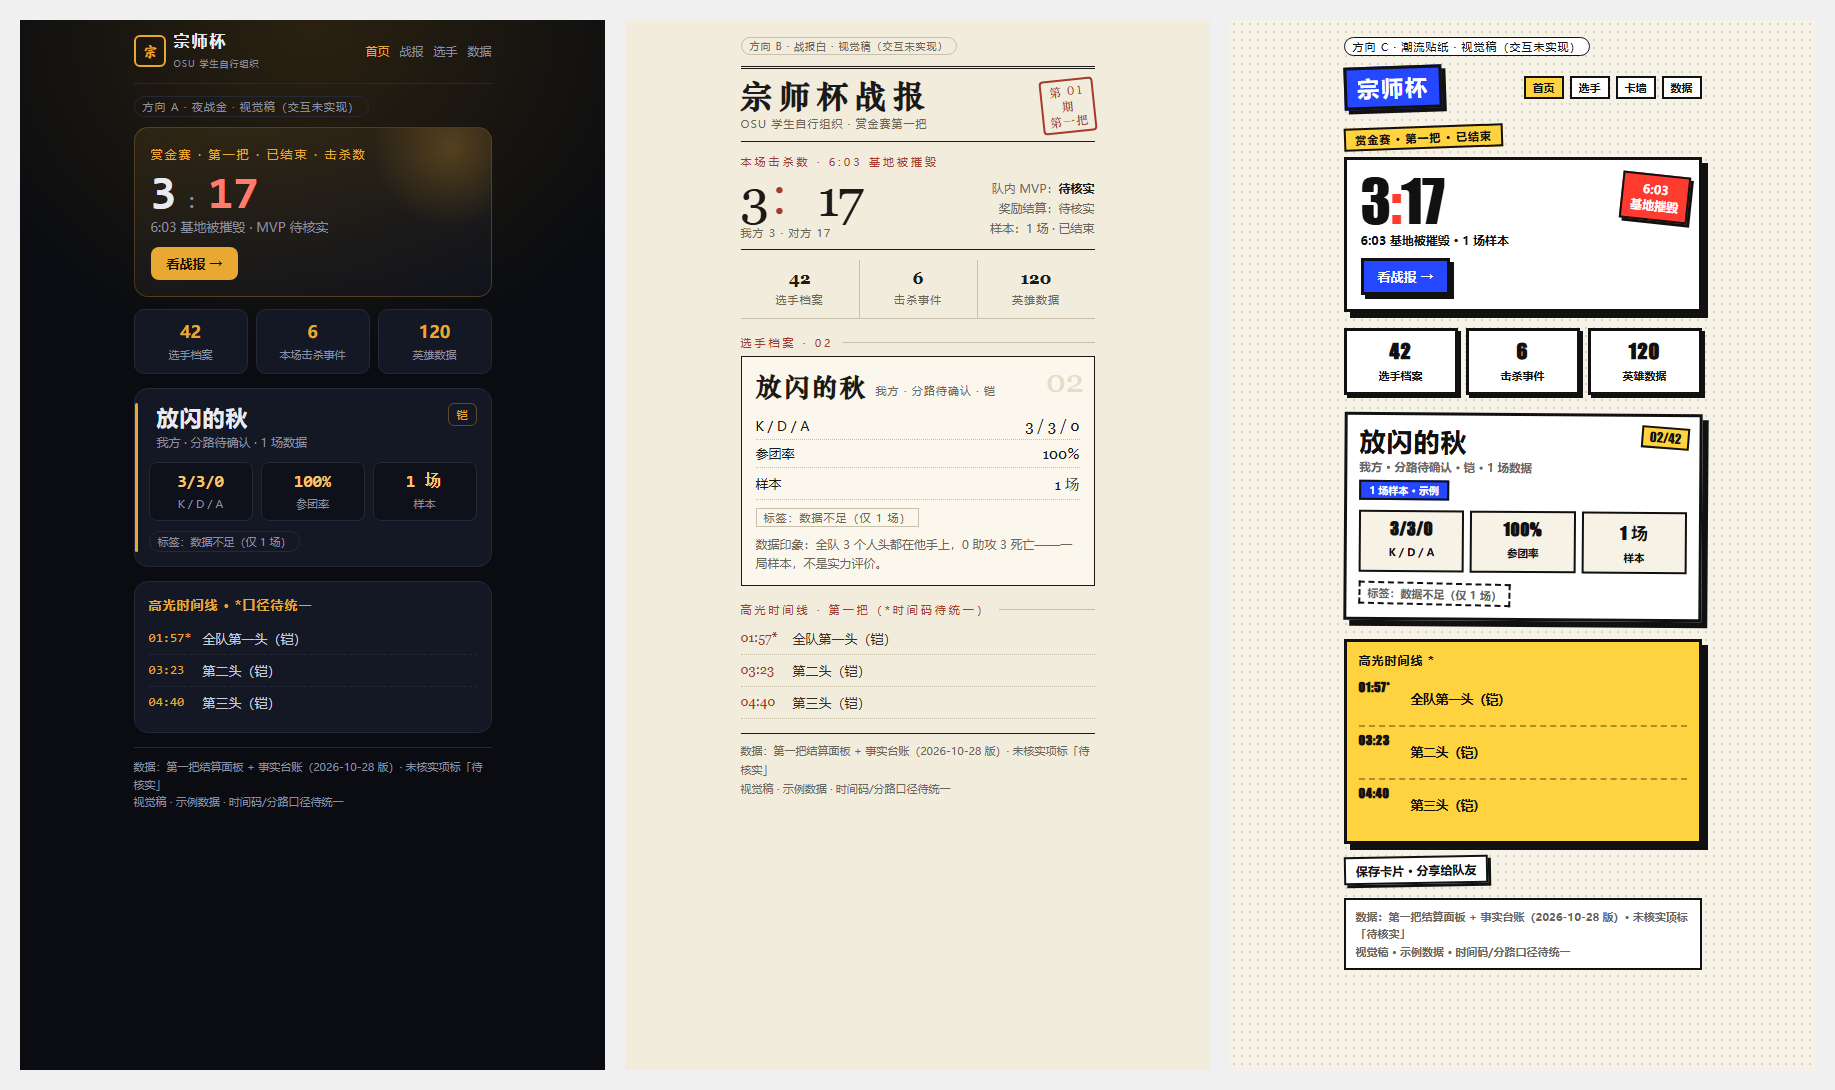
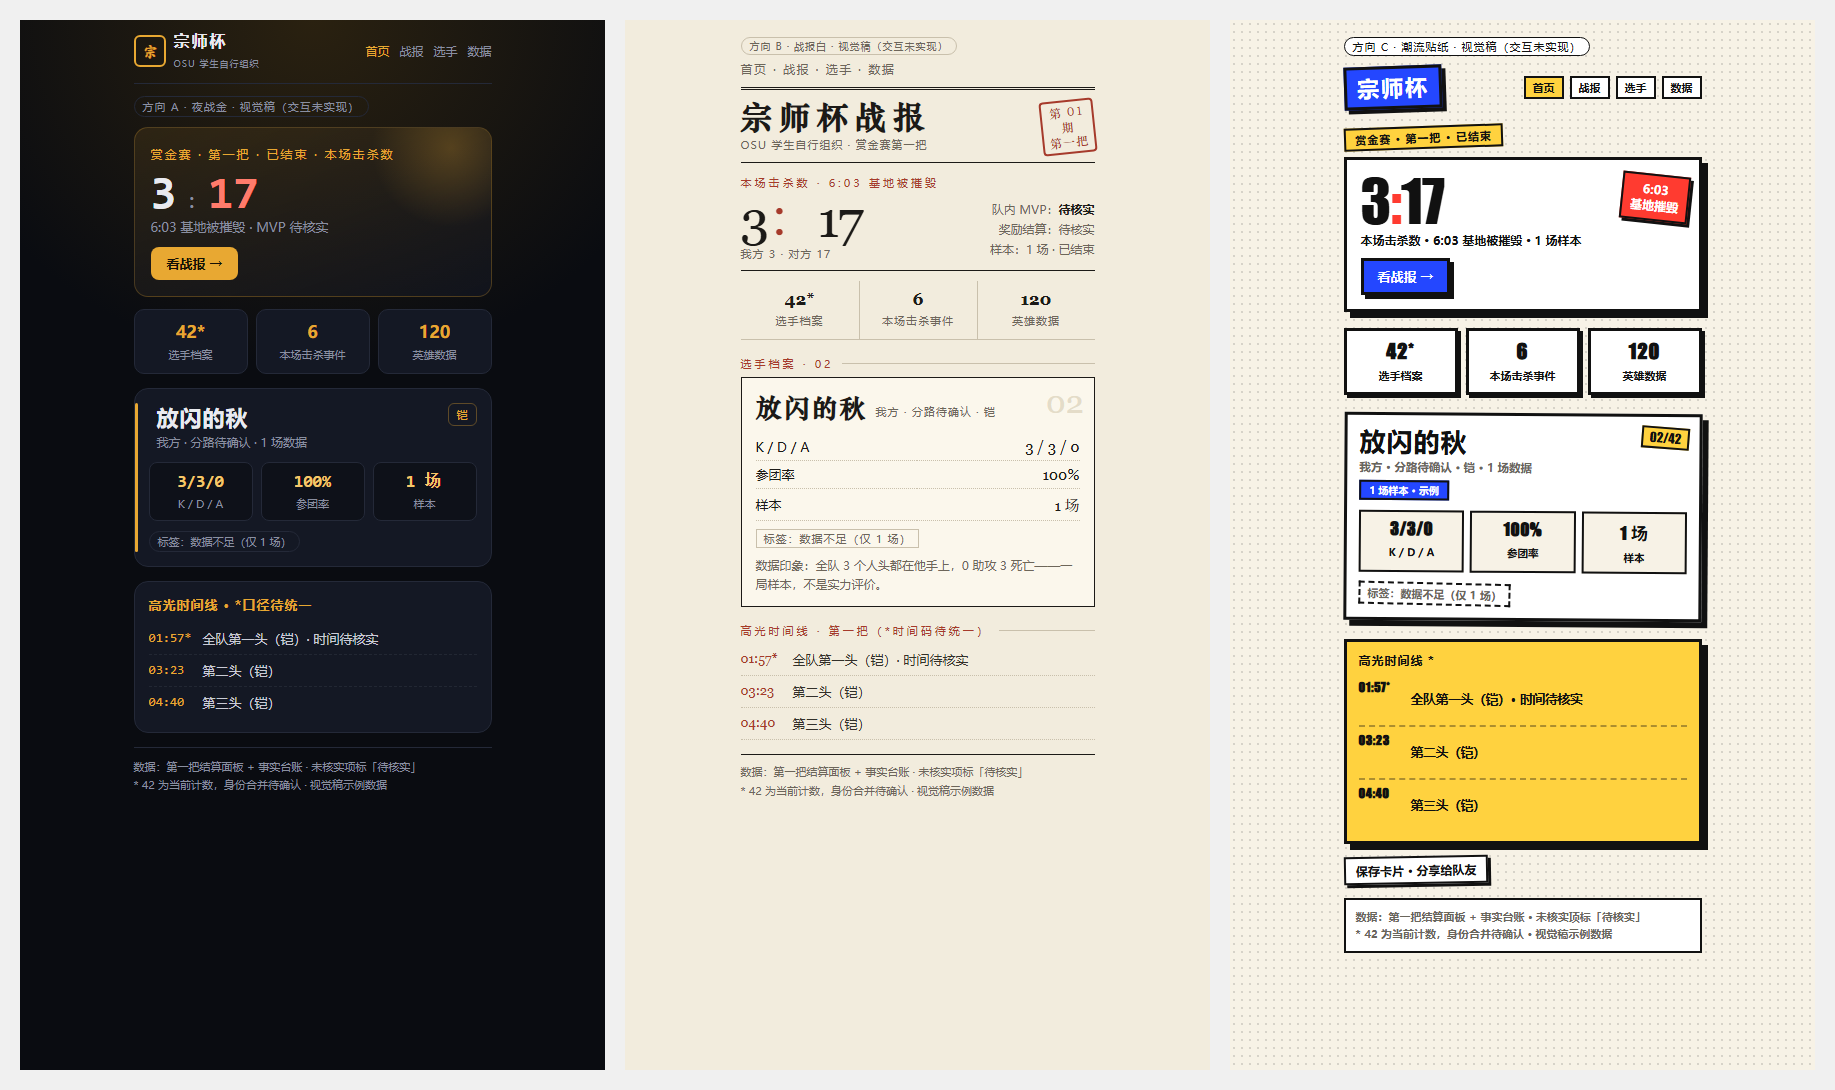
M0.3: 补事实与来源清单；逐项待核实、42 计数口径、数据/schema 审核门

diff --git a/mockups/style_c.html b/mockups/style_c.html
@@ -54,22 +54,22 @@ body{margin:0;background:var(--cream);color:var(--ink);font-family:"Microsoft Ya
 
   <div class="topbar">
     <div class="logo">宗师杯</div>
-    <div class="nav"><span class="on">首页</span><span>选手</span><span>卡墙</span><span>数据</span></div>
+    <div class="nav"><span class="on">首页</span><span>战报</span><span>选手</span><span>数据</span></div>
   </div>
 
   <div class="hero">
     <div class="tape">赏金赛 · 第一把 · 已结束</div>
     <div class="score">
       <div class="big">3<em>:</em>17</div>
-      <div class="sub">6:03 基地被摧毁 · 1 场样本</div>
+      <div class="sub">本场击杀数 · 6:03 基地被摧毁 · 1 场样本</div>
       <div class="sticker">6:03<br/>基地摧毁</div>
       <a class="cta" href="#">看战报 →</a>
     </div>
   </div>
 
   <div class="tiles">
-    <div class="tile"><b>42</b><span>选手档案</span></div>
-    <div class="tile"><b>6</b><span>击杀事件</span></div>
+    <div class="tile"><b>42*</b><span>选手档案</span></div>
+    <div class="tile"><b>6</b><span>本场击杀事件</span></div>
     <div class="tile"><b>120</b><span>英雄数据</span></div>
   </div>
 
@@ -88,13 +88,13 @@ body{margin:0;background:var(--cream);color:var(--ink);font-family:"Microsoft Ya
 
   <div class="tl">
     <h3>高光时间线 *</h3>
-    <div class="ev"><time>01:57*</time><p>全队第一头（铠）</p></div>
+    <div class="ev"><time>01:57*</time><p>全队第一头（铠）· 时间待核实</p></div>
     <div class="ev"><time>03:23</time><p>第二头（铠）</p></div>
     <div class="ev"><time>04:40</time><p>第三头（铠）</p></div>
   </div>
 
   <span class="share">保存卡片 · 分享给队友</span>
-  <div class="src">数据：第一把结算面板 + 事实台账（2026-10-28 版）· 未核实项标「待核实」<br/>视觉稿 · 示例数据 · 时间码/分路口径待统一</div>
+  <div class="src">数据：第一把结算面板 + 事实台账 · 未核实项标「待核实」<br/>* 42 为当前计数，身份合并待确认 · 视觉稿示例数据</div>
 </div>
 </body>
 </html>

diff --git a/mockups/style_b.html b/mockups/style_b.html
@@ -45,11 +45,13 @@ td:last-child{text-align:right;font-family:Georgia,serif;font-size:15px}
 .ev time{font-family:Georgia,serif;color:var(--red);min-width:42px;font-size:13px}
 .ev p{margin:0;color:#33302a}
 .src{margin-top:14px;border-top:1px solid var(--ink);padding-top:8px;font-family:"Microsoft YaHei",sans-serif;font-size:11px;color:var(--muted);line-height:1.7}
+.bnav{font-family:"Microsoft YaHei",sans-serif;font-size:11.5px;color:var(--muted);margin-top:6px;letter-spacing:2px}
 </style>
 </head>
 <body>
 <div class="screen">
   <div class="dir">方向 B · 战报白 · 视觉稿（交互未实现）</div>
+  <div class="bnav">首页 · 战报 · 选手 · 数据</div>
 
   <div class="masthead">
     <div>
@@ -70,8 +72,8 @@ td:last-child{text-align:right;font-family:Georgia,serif;font-size:15px}
   </div>
 
   <div class="strip">
-    <div><b>42</b><span>选手档案</span></div>
-    <div><b>6</b><span>击杀事件</span></div>
+    <div><b>42*</b><span>选手档案</span></div>
+    <div><b>6</b><span>本场击杀事件</span></div>
     <div><b>120</b><span>英雄数据</span></div>
   </div>
 
@@ -89,12 +91,12 @@ td:last-child{text-align:right;font-family:Georgia,serif;font-size:15px}
 
   <div class="section">高光时间线 · 第一把（*时间码待统一）</div>
   <div class="tl">
-    <div class="ev"><time>01:57*</time><p>全队第一头（铠）</p></div>
+    <div class="ev"><time>01:57*</time><p>全队第一头（铠）· 时间待核实</p></div>
     <div class="ev"><time>03:23</time><p>第二头（铠）</p></div>
     <div class="ev"><time>04:40</time><p>第三头（铠）</p></div>
   </div>
 
-  <div class="src">数据：第一把结算面板 + 事实台账（2026-10-28 版）· 未核实项标「待核实」<br/>视觉稿 · 示例数据 · 时间码/分路口径待统一</div>
+  <div class="src">数据：第一把结算面板 + 事实台账 · 未核实项标「待核实」<br/>* 42 为当前计数，身份合并待确认 · 视觉稿示例数据</div>
 </div>
 </body>
 </html>

diff --git a/mockups/style_a.html b/mockups/style_a.html
@@ -61,14 +61,14 @@ body{margin:0;background:radial-gradient(120% 60% at 50% 0%,#2a2110 0%,#0a0c11 5
   <div class="dir">方向 A · 夜战金 · 视觉稿（交互未实现）</div>
 
   <div class="hero">
-    <div class="match-label">赏金赛 · 第一把 · 已结束 · 击杀数</div>
+    <div class="match-label">赏金赛 · 第一把 · 已结束 · 本场击杀数</div>
     <div class="score"><b>3</b><i>:</i><b class="lose">17</b></div>
     <div class="meta">6:03 基地被摧毁 · MVP 待核实</div>
     <a class="cta" href="#">看战报 →</a>
   </div>
 
   <div class="tiles">
-    <div class="tile"><b>42</b><span>选手档案</span></div>
+    <div class="tile"><b>42*</b><span>选手档案</span></div>
     <div class="tile"><b>6</b><span>本场击杀事件</span></div>
     <div class="tile"><b>120</b><span>英雄数据</span></div>
   </div>
@@ -88,12 +88,12 @@ body{margin:0;background:radial-gradient(120% 60% at 50% 0%,#2a2110 0%,#0a0c11 5
 
   <div class="tl">
     <h3>高光时间线 · *口径待统一</h3>
-    <div class="ev"><time>01:57*</time><p>全队第一头（铠）</p></div>
+    <div class="ev"><time>01:57*</time><p>全队第一头（铠）· 时间待核实</p></div>
     <div class="ev"><time>03:23</time><p>第二头（铠）</p></div>
     <div class="ev"><time>04:40</time><p>第三头（铠）</p></div>
   </div>
 
-  <div class="src">数据：第一把结算面板 + 事实台账（2026-10-28 版）· 未核实项标「待核实」<br/>视觉稿 · 示例数据 · 时间码/分路口径待统一</div>
+  <div class="src">数据：第一把结算面板 + 事实台账 · 未核实项标「待核实」<br/>* 42 为当前计数，身份合并待确认 · 视觉稿示例数据</div>
 </div>
 </body>
 </html>

diff --git a/reviews/codex_review_02.md b/reviews/codex_review_02.md
@@ -1,0 +1,57 @@
+## 1. 逐项核对 P0 / P1
+
+审阅依据为当前大纲、三份 HTML、原评审及附件截图。仓库 HEAD 指向 `0cf96c4c82e5ea9f53c5b3f83d56d1774e3f325b`；Git 状态命令被环境策略拒绝，**工作树是否与提交完全一致需确认**。以下位置均为当前文件行号。
+
+| 项目 | 结论 | 证据与判断 |
+|---|---|---|
+| **P0-1 未核实项标注** | **部分关闭** | 分路已改为“待确认”：A:78、B:80、C:79；MVP 已标待核实：A:66、B:66。但第一头仍为 `01:57*`：A:91、B:92、C:91，仅以模块说明或页尾解释时间码待统一。大纲:129 仍列出 `01:56/01:57` 冲突。应在该值旁直接写“待核实”，避免星号被忽略。 |
+| **P0-2 奖励/日期证据** | **部分关闭** | B:67 已将奖励改为“待核实”，原倍率问题关闭。三版页尾 A:96、B:97、C:97 将日期改为“事实台账（2026-10-28 版）”，不再宣称该日已核对；但当前仓库未提供对应台账、版本定位或核对记录。**版本日期依据需确认**，补齐前应标待核实或移除日期。 |
+| **P0-3 公开标签规则** | **已关闭（本轮视觉稿范围）** | 三版:86 均改为“标签：数据不足（仅 1 场）”，未再展示“独狼强开／风险型”。大纲:32、87 保留稳定性发布约束。实际标签生成与校验留待数据阶段验收。 |
+| **P0-4 自填隐私约束** | **已关闭（规范层面）** | 大纲:88 明确公开开关仅表示意向，导出后须人工审核；:89 明确自述、名场面及导出 JSON 禁止真实姓名、学校、联系方式、住址、照片，并要求隐藏／删除接收入口。审核人和实际入口尚待落实，但不阻断本轮方向选择。 |
+| **P1-1 身份合并** | **部分关闭** | 大纲:83–84 已引入独立人物 ID、候选合并表及“未确认不合并、不覆盖”。但:76 仍把“同昵称＋同队伍”写成已经完成的合并，:77 断言 S1/S2 无重叠；:42、57 和三版统计仍按 42 人展示。尚无身份确认记录，规则与现状陈述未统一。:88 也未明确本地认领阶段如何人工核验归属。 |
+| **P1-2 审核基准** | **部分关闭** | 大纲:145–147 已拆分身份契约、数据校验和生成器；:158 要求记录提交 SHA、问题状态及复审结论。但:156 的审核门仍未显式列入数据/schema 门，审核记录也未完整要求文件范围、截图版本、验证结果和逐项关闭证据。当前 `reviews/codex_review_01.md` 是原审记录，不能替代 M0.2 修订证据包。 |
+| **P1-3 状态/占位边界** | **已关闭（M0 视觉稿范围）** | 大纲:46、108 已统一仓库状态；:59、88、109 明确自填为本地原型。A:61、B:52、C:53 均标“视觉稿（交互未实现）”。因此 A/C 的 `href="#"`、导航 `span`、C 分享 `span` 可作为方向稿占位，但不算 M1 功能完成。 |
+
+文件简称：A/B/C 分别为 `mockups/style_a.html`、`style_b.html`、`style_c.html`；“大纲”为 `docs/01_整体大纲_20261031.md`。
+
+## 2. 修订后的 UI 评价
+
+**排名不变：B ＞ A ＞ C。已达到“可让 Jason 选方向”的水准。**
+
+- **B**：报头、印章、细线和表格语言最完整，去除正文纸纹后更干净，最适合战报与来源档案。
+- **A**：层级稳定、赛事氛围明确，是合适的深色备选；金色强调仍偏多。
+- **C**：分享传播辨识度最高，中性化基地摧毁文案是有效改进；点阵、粗边、硬阴影和旋转同时使用，长页面阅读仍较累。
+
+**阻断本轮通过的修改：**
+
+1. 第一头时间逐项标“待核实”；日期补证或撤下确定日期。
+2. 消除身份合并规则与“已合并／42 人”现状陈述的冲突。
+3. 补齐审核记录要求，并显式设置数据/schema 审核门。
+
+**M1 验收前必须完成，但不阻断选方向：**
+
+- B 补导航和明确入口；C 导航按大纲恢复“首页／战报／选手／数据”。
+- A/C 补“本场击杀数”和双方归属；统一“6”的统计范围。
+- 落实字级、点击区域和窄屏验证。当前仍有大量 9–11px 文字，如 A:16、B:12/47、C:34/38；附件不能证明 320/390/430px 均通过。
+- 完成可点击样板链路及独立分享卡。
+
+**可选调整：**A 减少非关键金色；C 降低装饰密度；B 保留编辑排版，继续提高辅助信息可读性。
+
+## 3. 新发现的问题（最多 5 条）
+
+本轮新增发现两项；其余均属于原问题未完全关闭。
+
+1. **P1｜来源能力被过度概括。** 大纲:86 要求“每个数字”都带赛事、场次、表和日期，但英雄数据与跨赛事汇总不一定适用同一组字段。建议在字段契约中按数据类型定义来源要求与缺失值，避免形式齐全但语义不成立。
+2. **P2｜版本标识与修订说明不准确。** 大纲:1 仍称 v0.1，:3 已称 v0.2；:208 宣称未核实项已标“待核实”、比分已统一，但第一头和 C 比分仍未完全落实。应按实际完成情况修正，避免下一轮误判关闭状态。
+
+## 4. 总裁决
+
+**CHANGES。**
+
+本次可以让 Jason 选择视觉方向；尚不能认定 P0/P1 全部关闭。先完成上述三项阻断修订，再复审 M0.2；不需要为选型继续重做三套视觉。
+
+## 5. 给 Jason 的建议
+
+**主视觉：**选 B 作为全站主方向，C 用于独立分享卡和卡墙；A 保留为深色备选即可。
+
+**首批范围：**维持“首页 → 单场战报 → 1 个样板选手页 → 来源页”，使用同一份数据，附三种窄屏截图和一张分享卡。身份与来源契约通过后，再批量扩展选手页。

diff --git a/docs/02_事实与来源清单_20261031.md b/docs/02_事实与来源清单_20261031.md
@@ -1,0 +1,60 @@
+# 02 事实与来源清单（M0，2026-10-31）
+
+> 用途：给 Codex / GPT / Jason 核对页面数字的**来源与确认状态**。未确认项不得以确定语气进入公开页面。
+> 说明：部分来源在主项目目录（`D:\宗师杯视频\HOK-model\...` 等），未随本仓库发布；本清单给出定位，供复核。
+
+## 1. 来源能力分级（页面必须按级标注）
+
+| 级别 | 适用范围 | 标注要求 |
+|---|---|---|
+| A 逐数字可追 | 单场比分、击杀/推塔事件、视频时长 | 每条给来源 + 时间码/场次 |
+| B 逐模块可追 | S1 六维、英雄榜 | 给表名 + 源日期 + 抓取日期，不逐条引用 |
+| C 仅汇总 | 跨赛事计数、选手数 | 给数据文件 + 计数口径，标明「计数待身份确认」 |
+
+原则：C 级不得伪装成 A 级；缺失值标「待补」，不填空。
+
+## 2. 已确认（可公开，须标来源）
+
+| 项 | 值 | 状态 | 来源 |
+|---|---|---|---|
+| 第一把比分 | 3 : 17 | 已确认 | 结算面板（视频 919s）+ `HOK-model\02_赛事资料\02_第一把画面与音频核对.md` §3 |
+| 基地被摧毁 | 6:03（最后可见时钟） | 已确认 | 事实台账 F05 + 画面 905s |
+| 速通 2.6× 奖励 | 仅速通部分乘 2.6 | 已确认口径 | 事实台账 F06 / F26 |
+| 队内评选 MVP | 猫猫（沈梦溪），额外 50% | 已确认口径（金额不展示） | 事实台账 F28 |
+| 我方 3 杀归属 | 均来自放闪的秋（铠） | 观察已确认；解释待确认 | 身份修正 v01 §3 + 画面 659/745/822s |
+| 第 2/3 头时间 | 03:23 / 04:40 | 已确认（画面） | 身份修正 v01 §2.1 |
+| S2 十人 KDA/参团 | 见数据文件 | 已确认 | 结算面板 + 事实台账 F21/F31 |
+| 视频时长 | 四分钟复盘 57.6s；开头样片 57.0s | 实测 | ffprobe（`04_剪辑工程\tools\ffprobe.exe`） |
+| S1 六维 | 37 条记录 / 32 个唯一昵称 | 已确认（数据） | `exports\宗师杯_选手档案_总表_S1S2.xlsx`；原表 OneDrive《宗师杯 数据.xlsx》 |
+| S1 标签发布规则 | 5 组阈值全中才发布 | 已确认 | `docs\09_风格标签敏感性_20261029.md`、`exports\宗师杯S1_标签稳定性.xlsx` |
+| HOK 英雄榜 | 120 英雄 / 8 类榜单 | 已确认（抓取） | `data\api\ranklist_all.json`、`fetch_meta.json` |
+| 英雄榜源与抓取日期 | 源 2026-10-16；抓取 2026-10-28 | 已确认 | `docs\03_HOK数据源与机制基线_20261028.md`、`fetch_meta.json` |
+
+## 3. 待核实 / 待统一（公开页面必须写「待核实」）
+
+| 项 | 冲突/状态 | 处理 | 来源定位 |
+|---|---|---|---|
+| 一血时间 | 00:41（583s）vs 00:44–00:45（586s） | 待统一后再写死 | 身份修正 v01 §2.1 vs 画面核对 §2 |
+| 我方第一头 | 01:57（659s）vs 01:56 | 页面写「约 01:57 · 时间待核实」 | 身份修正 v01 vs players JSON |
+| S2 分路（打野/中路等） | 候选、未确认 | 页面写「分路待确认」 | 十人身份核对 v02 §3 |
+| 比赛日期 / 正式名称 | 「宗师杯/赏金赛/圣诞赛」关系与日期未确认 | 不写日期；写「口径待确认」 | 事实台账 Q06 |
+| 推塔时间 | B-B1≈04:01、B-B2≈04:28、B-M1≈05:23 | 标「地图教程例题，需复核原帧」 | `map_kit\README.md` |
+| 奖金金额 / 50、67 项目名 | 基数与项目名未核实 | 不展示金额，只写「2.6× 速通 / MVP 额外 50%」 | 事实台账 Q01–Q04 |
+| 选手总数 | 42 = 32 S1 + 10 S2（计数） | 页面标「42*（计数，身份合并待确认）」 | 数据文件统计 |
+| S2 一局初判标签 | 不满足稳定标签规则 | 不发布；显示「标签：数据不足（仅 1 场）」 | docs/09 |
+
+## 4. 身份与合并状态
+
+- S1：37 条位置记录 → 32 个唯一昵称；5 个昵称出现在 2 个位置（Lucaso0、黄泳周晨、声入碧窗寒、我爸是李荣浩、金色传说111）。
+- 合并规则：同昵称 + 同队伍只作**候选**，人工确认后才合并；跨赛事同名同理；未确认不合并、不覆盖。
+- S2：10 个昵称；与 S1 按昵称无重叠（待身份确认）。
+- 人物 ID：`p_0001` 起、不依赖昵称与赛事；赛事/队伍/昵称历史另存（见大纲 §5.2）。
+- 当前页面上的「42」是计数，不是身份确认后的最终名单。
+
+## 5. 自填内容禁区
+
+自述 / 名场面 / 导出 JSON 不得包含：真实姓名、学校、联系方式、住址、照片。公开开关只是意向，须人工审核后发布；选手可要求隐藏/删除，需有实际接收入口。
+
+---
+
+*本清单由 Jason 的 AI 小助手（DeepSeek）整理；状态与来源按主项目现有资料记录，未核实项不当作事实。*
